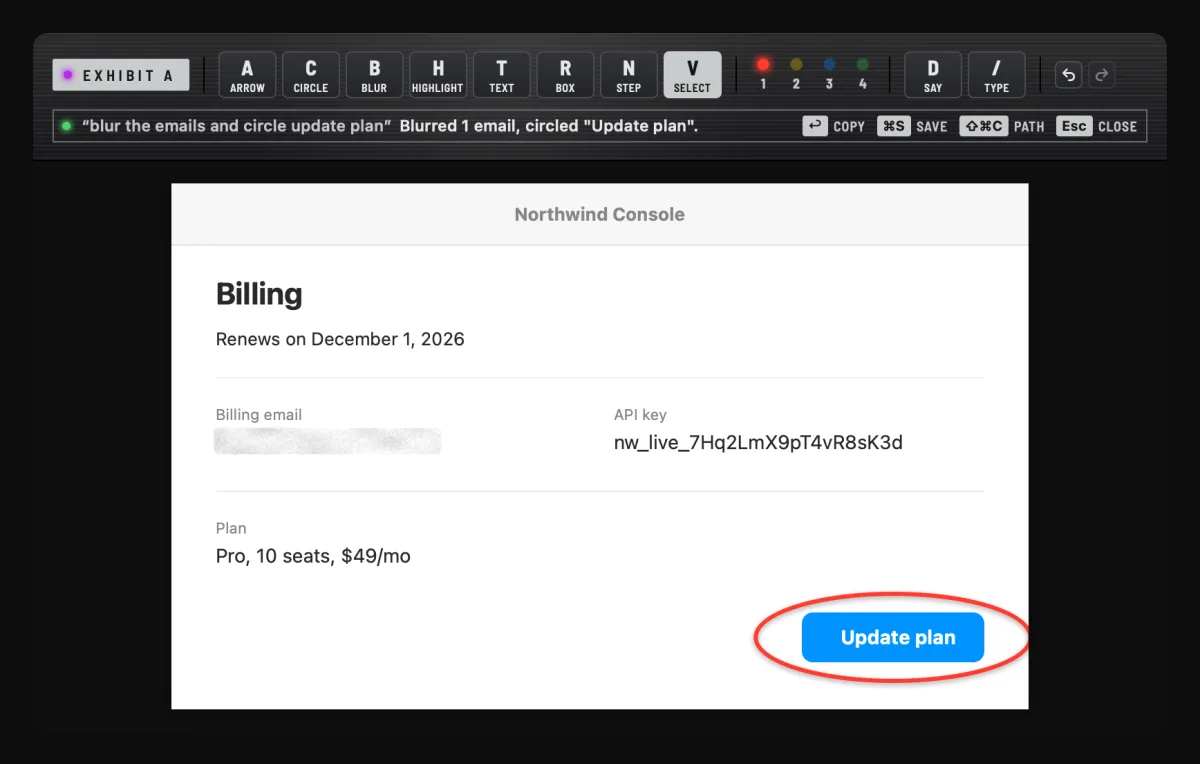
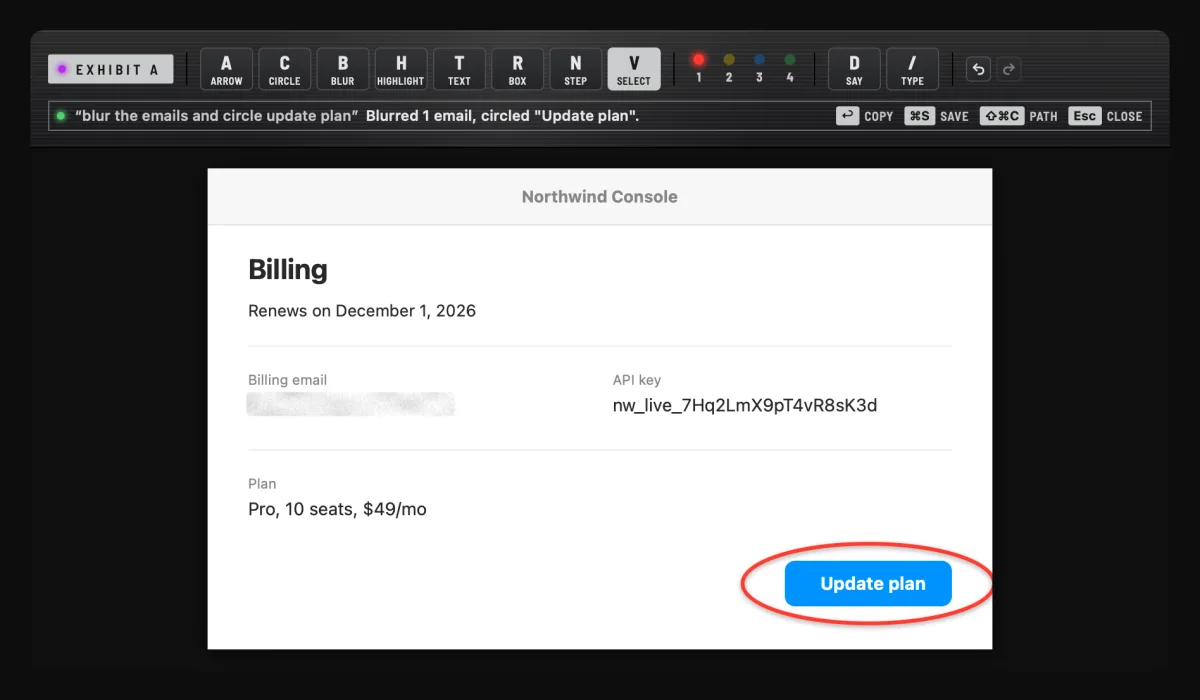
Re-export the site screenshots from the re-rendered app samples
docs/samples/app/ was re-rendered with the toolbar seam and selection box
fixes; the editor shots are now 1200x700, so the hero's size follows.

diff --git a/site/src/pages/index.html b/site/src/pages/index.html
@@ -17,7 +17,7 @@
         <span class="bx-screw"></span><span class="bx-screw"></span><span class="bx-screw"></span><span class="bx-screw"></span>
         <picture>
           <source srcset="/shots/editor-applied-dark.webp" media="(prefers-color-scheme: dark)">
-          <img class="shot" src="/shots/editor-applied-light.webp" alt="The Exhibit A editor: a metal toolbar with one key per mark, a status line reading Blurred 1 email, circled Update plan, and a billing page with the email blurred and the Update plan button circled in red." width="1200" height="763">
+          <img class="shot" src="/shots/editor-applied-light.webp" alt="The Exhibit A editor: a metal toolbar with one key per mark, a status line reading Blurred 1 email, circled Update plan, and a billing page with the email blurred and the Update plan button circled in red." width="1200" height="700">
         </picture>
       </div>
       <figcaption id="stage-caption">The editor after “blur the emails and circle update plan”, rendered from the app’s code on a sample screen.</figcaption>
